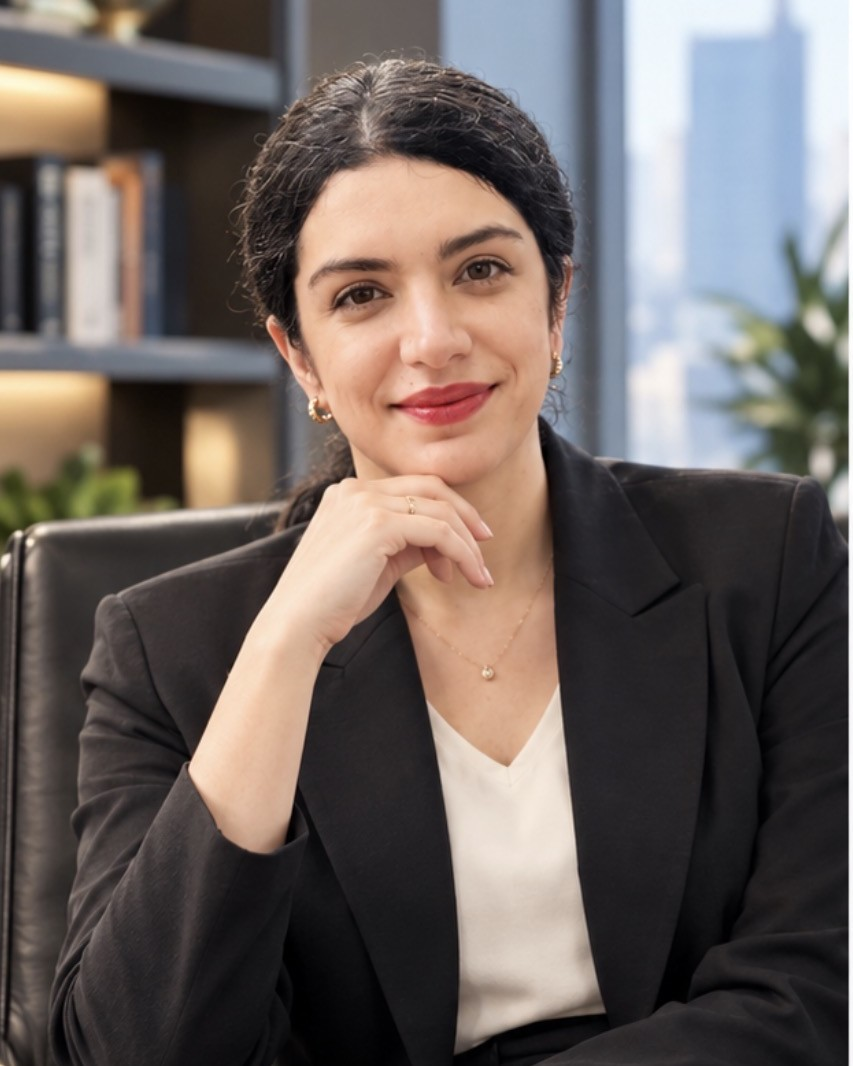
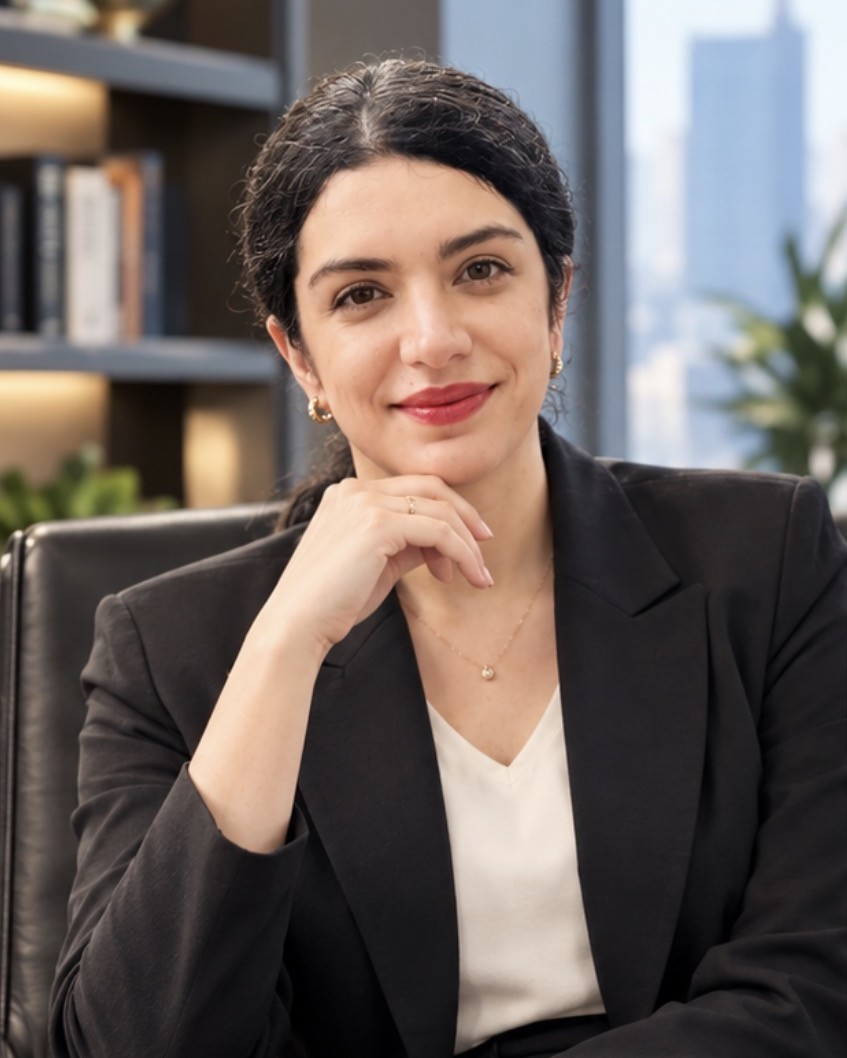
Design polish: tidier post endings, series list, portraits, dark search, and a page-not-found page
- End every post with a link back to its section and a Contact me button
- Keep "Coming soon" tags on one line, aligned at the end of each series row
- Smaller career portrait on phones; crop the white strip on its right edge
- Align the Contact me portrait with the page title
- Dim the page more behind search in dark mode; keep author/rating out of search snippets
- Add a bilingual 404 page (Farsi first, kept out of search engines)
- Trim the empty band above the footer

Claude-Session: https://claude.ai/code/session_01ChJ83JYSp3qx11JpFb3gyU

diff --git a/src/styles/global.css b/src/styles/global.css
@@ -80,7 +80,7 @@ main {
   width: 100%;
   max-width: var(--wide);
   margin-inline: auto;
-  padding: 3.5rem var(--gutter) 5rem;
+  padding: 3.5rem var(--gutter) 3.5rem;
 }
 
 @media (max-width: 720px) {
